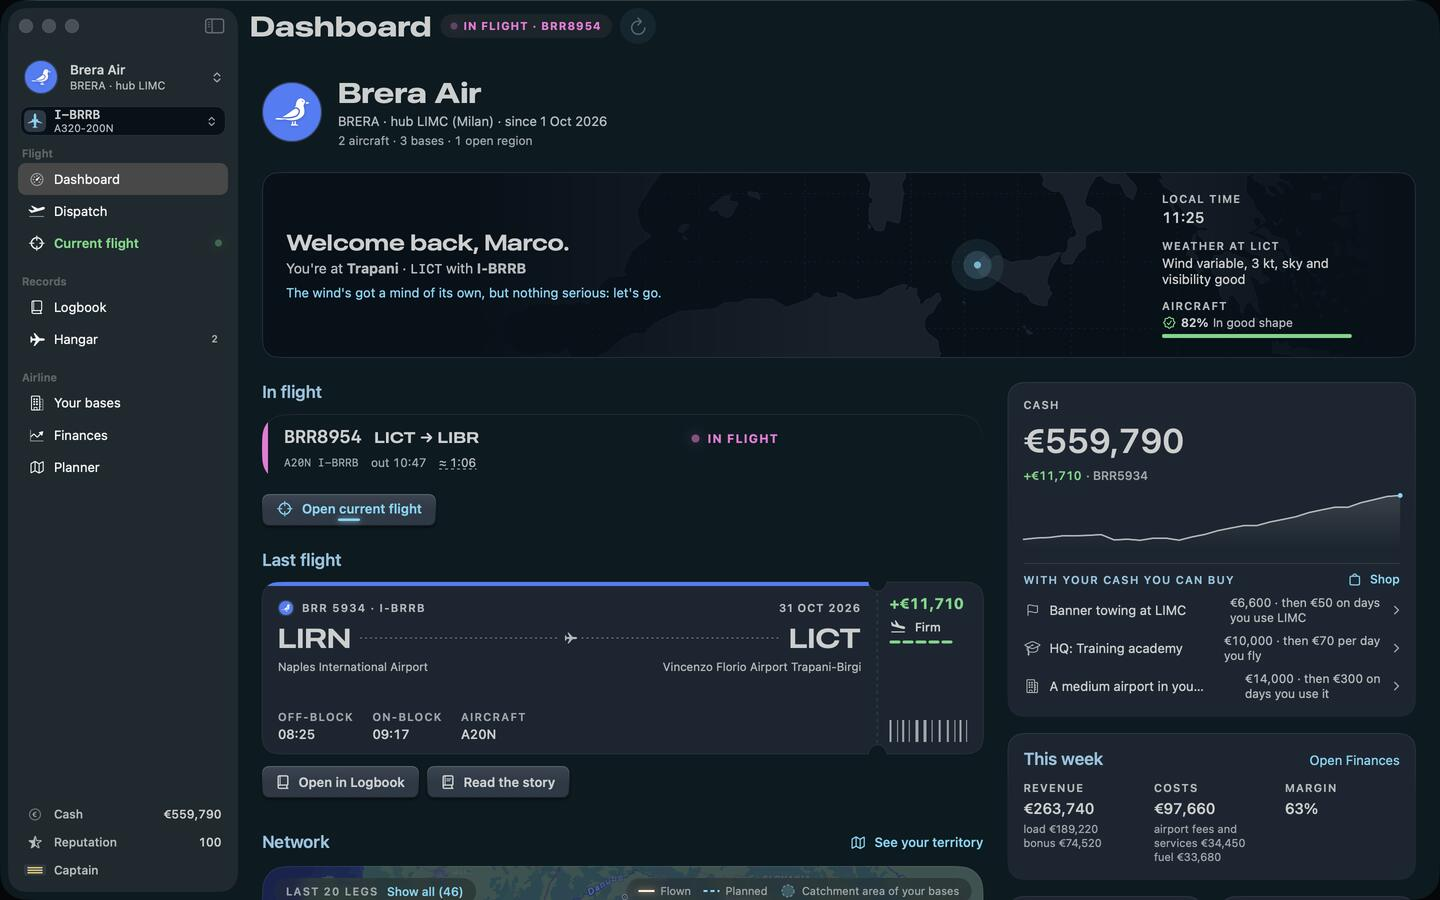
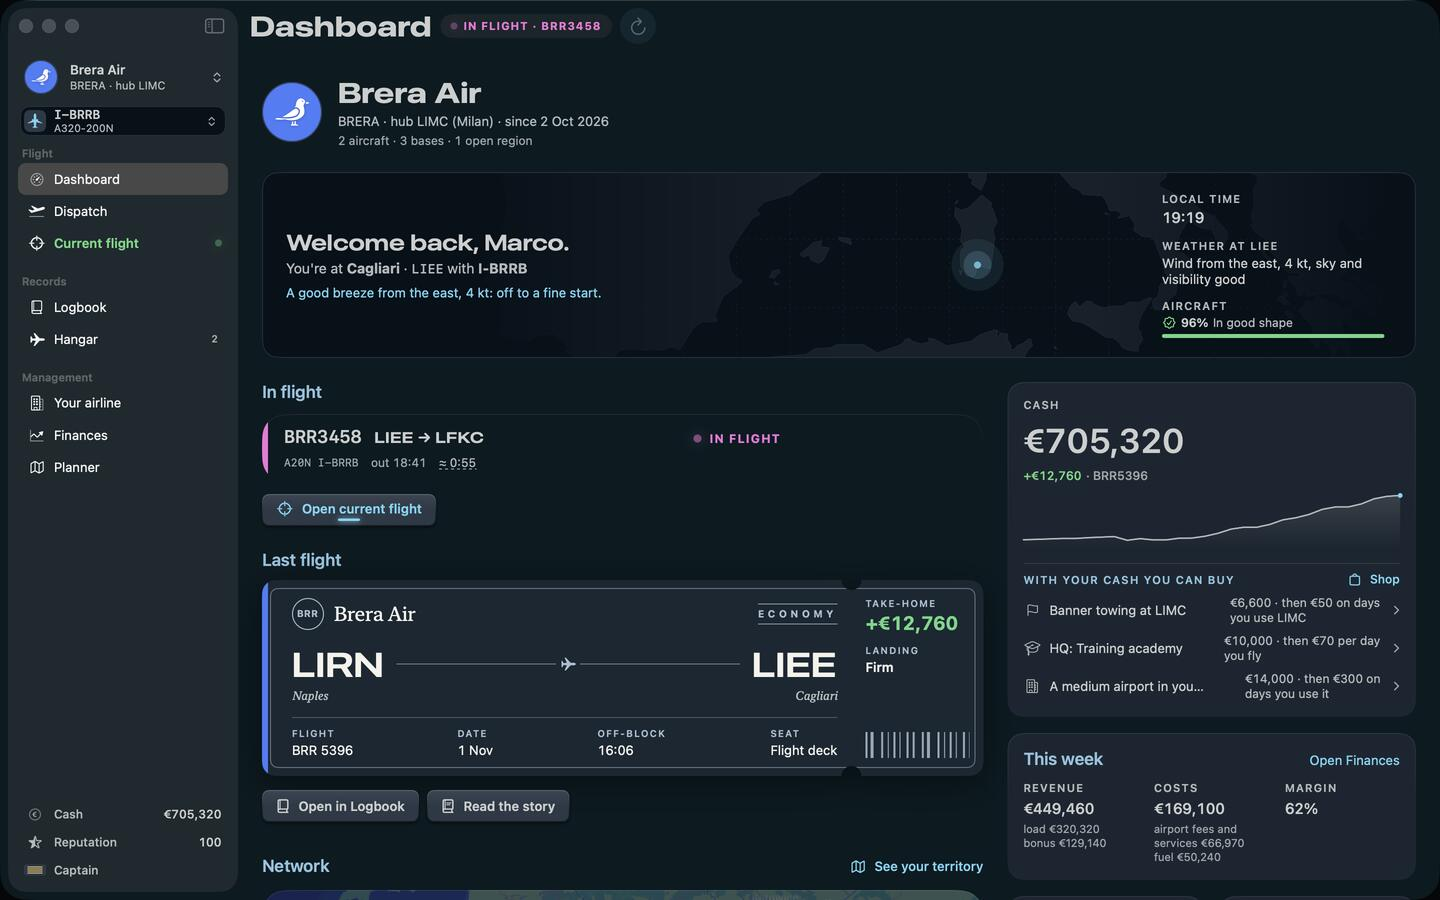
Planner facoltativo e foto del 01/11
Il giro, le cornici, «Works with every version» e le domande dicono che il
piano nel planner è una scelta: chi lo fa ha il flusso di prima, chi no vola
la diretta fra i due aeroporti. L'accesso con l'account serve solo a chi usa
il planner. Schermate nuove (Cagliari–Calvi, Venezia–Friedrichshafen,
logbook fino a Ürümqi) con alt e ritaglio della missione accettata rifatti;
airline@2x resta quella del 31/10.

diff --git a/index.html b/index.html
@@ -69,14 +69,14 @@
 <!-- 2 · L'idea, dal generale -->
 <section class="intro" id="idea">
   <div class="intro-text">
-    <h2>Same sim, same planner. Now there’s an airline.</h2>
-    <p>Microsoft Flight Simulator gives you the aircraft, the world and a planner to prepare every flight. Chief Pilot keeps all of it, and adds what happens around the flight.</p>
+    <h2>Same sim, same habits. Now there’s an airline.</h2>
+    <p>Microsoft Flight Simulator gives you the aircraft, the world and a planner, if you like to plan. Chief Pilot keeps all of it, and adds what happens around the flight.</p>
     <p>Before you take off: a mission worth flying, generated where you parked last night. While you fly: a second screen beside the TV. After you land: a receipt, a boarding pass and a new trail on the map.</p>
     <p>And over all of it, the part the sim leaves to your imagination: an airline. Its fleet, its bases, its money, its reputation, and you, working your way up to captain.</p>
     <p><a class="text-link" href="#how">See how one evening goes</a></p>
   </div>
   <figure class="mac intro-mac">
-    <div class="mac-screen"><img src="assets/schermate/dashboard.jpg" srcset="assets/schermate/dashboard.jpg 1440w, assets/schermate/dashboard@2x.jpg 2880w" sizes="(min-width: 1100px) 62vw, 94vw" width="1440" height="900" loading="lazy" alt="The dashboard of Brera Air, based in Milan: the pilot at Trapani, the flight to Brindisi in progress, the last flight from Naples, cash and this week’s accounts."></div>
+    <div class="mac-screen"><img src="assets/schermate/dashboard.jpg" srcset="assets/schermate/dashboard.jpg 1440w, assets/schermate/dashboard@2x.jpg 2880w" sizes="(min-width: 1100px) 62vw, 94vw" width="1440" height="900" loading="lazy" alt="The dashboard of Brera Air, based in Milan: the pilot at Cagliari, the flight to Calvi in progress, the last flight from Naples, cash and this week’s accounts."></div>
     <div class="mac-base" aria-hidden="true"></div>
     <figcaption>The dashboard: your airline at a glance.</figcaption>
   </figure>
@@ -93,12 +93,12 @@
         <p>Work leaves from the airport where you last landed, sized to the aircraft you chose and to the legs you like.</p>
       </li>
       <li data-step="2">
-        <p class="loop-say">Plan it where you always plan.</p>
-        <p>Make the flight plan in the MSFS planner, as usual. Chief Pilot reads your saved plans, finds this one and links it to the mission.</p>
+        <p class="loop-say">Plan it, if you like.</p>
+        <p>Make the flight plan in the MSFS planner, as usual: Chief Pilot reads your saved plans, finds this one and links it to the mission. Without a plan, you fly the direct route between the two airports.</p>
       </li>
       <li data-step="3">
         <p class="loop-say">Fly it in the sim.</p>
-        <p>In the sim, EFB › Import Route. On the Mac, Off-block: the clock starts, with the route and the load sheet in view.</p>
+        <p>In the sim, EFB › Import Route, if you made a plan. On the Mac, Off-block: the clock starts, with the route and the load sheet in view.</p>
       </li>
       <li data-step="4">
         <p class="loop-say">Land, and get paid.</p>
@@ -134,7 +134,7 @@
         <p class="mission-load">Butter landing · on time · next: 6 departures from Sumburgh</p>
       </div>
       <ol class="drill" aria-label="The drill">
-        <li>Open the planner and save the plan</li>
+        <li>Optional: save the plan in the planner</li>
         <li>In the sim: EFB › Import Route</li>
         <li>Off-block</li>
         <li>Landed, and the receipt</li>
@@ -146,9 +146,9 @@
 <!-- 3 bis · Il volo: il piano dal planner, lo schermo accanto alla TV -->
 <section class="flight" id="flight">
   <figure class="mac">
-    <div class="mac-screen"><img src="assets/schermate/flight-ready.jpg" srcset="assets/schermate/flight-ready.jpg 1440w, assets/schermate/flight-ready@2x.jpg 2880w" sizes="(min-width: 1100px) 46vw, 94vw" width="1440" height="900" alt="Current flight before departure: the planned route from Trapani to Brindisi, the plan found in the planner, the drill and what to set in the sim." loading="lazy"></div>
+    <div class="mac-screen"><img src="assets/schermate/flight-ready.jpg" srcset="assets/schermate/flight-ready.jpg 1440w, assets/schermate/flight-ready@2x.jpg 2880w" sizes="(min-width: 1100px) 46vw, 94vw" width="1440" height="900" alt="Current flight before departure: the route from Cagliari to Calvi, the plan found in the planner and linked, the drill and what to set in the sim." loading="lazy"></div>
     <div class="mac-base" aria-hidden="true"></div>
-    <figcaption>Ready: the plan is in the planner, and the load sheet shows what to set in the sim.</figcaption>
+    <figcaption>Ready, here with a plan from the planner. The load sheet shows what to set in the sim.</figcaption>
   </figure>
   <figure class="mac">
     <div class="mac-screen"><img src="assets/schermate/current-flight.jpg" srcset="assets/schermate/current-flight.jpg 1440w, assets/schermate/current-flight@2x.jpg 2880w" sizes="(min-width: 1100px) 46vw, 94vw" width="1440" height="900" alt="Current flight in the air: the flight strip, the route in magenta and the load sheet." loading="lazy"></div>
@@ -162,7 +162,7 @@
   <h2 class="missions-head">Tonight’s departures.</h2>
   <div class="missions-blocks">
     <article class="mblock" style="--crop:2 / 6;--text:7 / 12">
-      <div class="crop" style="--a:324/376;--w:444.4;--l:344.4;--t:14.4"><img src="assets/schermate/dispatch@2x.jpg" width="2880" height="1800" alt="The accepted mission in Dispatch: Grenoble to Zurich on the map, with 55 passengers on board." loading="lazy"></div>
+      <div class="crop" style="--a:324/390;--w:444.4;--l:344.4;--t:13.8"><img src="assets/schermate/dispatch@2x.jpg" width="2880" height="1800" alt="The accepted mission in Dispatch: Venice to Friedrichshafen on the map, with 56 passengers on board." loading="lazy"></div>
       <div class="mtext">
         <h3>Where you are, what you fly</h3>
         <ul>
@@ -175,7 +175,7 @@
       </div>
     </article>
     <article class="mblock mblock-flip" style="--crop:7 / 13;--text:1 / 6">
-      <div class="crop" style="--a:838/524;--w:171.8;--l:31.0;--t:44.7"><img src="assets/schermate/dispatch@2x.jpg" width="2880" height="1800" alt="The departures board: Zurich, Clermont-Ferrand, Bern, Sion, Rodez and Lyon, with passengers, perishables, express parcels and two rare missions." loading="lazy"></div>
+      <div class="crop" style="--a:838/524;--w:171.8;--l:31.0;--t:44.7"><img src="assets/schermate/dispatch@2x.jpg" width="2880" height="1800" alt="The departures board: Friedrichshafen, Munich, Bergamo, Milan, Parma, Zadar and Verona, with passengers, cargo, express parcels, perishables and two rare missions." loading="lazy"></div>
       <div class="mtext">
         <h3>Every kind of job</h3>
         <ul>
@@ -203,7 +203,7 @@
     </article>
   </div>
   <figure class="mac missions-mac">
-    <div class="mac-screen"><img src="assets/schermate/dispatch.jpg" srcset="assets/schermate/dispatch.jpg 1440w, assets/schermate/dispatch@2x.jpg 2880w" sizes="(min-width: 1100px) 80vw, 94vw" width="1440" height="900" alt="Dispatch at Grenoble: the departures board with the accepted mission to Zurich and two rare ones, and the story of the accepted flight." loading="lazy"></div>
+    <div class="mac-screen"><img src="assets/schermate/dispatch.jpg" srcset="assets/schermate/dispatch.jpg 1440w, assets/schermate/dispatch@2x.jpg 2880w" sizes="(min-width: 1100px) 80vw, 94vw" width="1440" height="900" alt="Dispatch at Venice: the departures board with the accepted mission to Friedrichshafen and two rare ones, and the story of the accepted flight." loading="lazy"></div>
     <div class="mac-base" aria-hidden="true"></div>
     <figcaption>Dispatch, with the story of the accepted mission.</figcaption>
   </figure>
@@ -425,7 +425,7 @@
       </ul>
     </div>
     <figure class="mac">
-      <div class="mac-screen"><img src="assets/schermate/logbook.jpg" srcset="assets/schermate/logbook.jpg 1440w, assets/schermate/logbook@2x.jpg 2880w" sizes="(min-width: 1100px) 46vw, 94vw" width="1440" height="900" alt="The Logbook of an airline based at Amsterdam: trails across Europe and the Middle East, totals, and the list of flights." loading="lazy"></div>
+      <div class="mac-screen"><img src="assets/schermate/logbook.jpg" srcset="assets/schermate/logbook.jpg 1440w, assets/schermate/logbook@2x.jpg 2880w" sizes="(min-width: 1100px) 46vw, 94vw" width="1440" height="900" alt="The Logbook of an airline based at Amsterdam: trails across Europe, Africa and Asia as far as Ürümqi, the totals, and the flights as boarding passes." loading="lazy"></div>
       <div class="mac-base" aria-hidden="true"></div>
       <figcaption>The Logbook, with the trails and the totals.</figcaption>
     </figure>
@@ -514,7 +514,7 @@
   </div>
   <div class="nrow nrow-flip">
     <figure class="mac">
-      <div class="mac-screen"><img src="assets/schermate/territory.jpg" srcset="assets/schermate/territory.jpg 1440w, assets/schermate/territory@2x.jpg 1920w" sizes="(min-width: 1100px) 56vw, 94vw" width="1920" height="1450" style="object-position: 50% 50%" alt="Your territory: areas in North America and Western Europe, the hub at Amsterdam, bases at Düsseldorf, Barcelona and New York, and their catchment areas." loading="lazy"></div>
+      <div class="mac-screen"><img src="assets/schermate/territory.jpg" srcset="assets/schermate/territory.jpg 1440w, assets/schermate/territory@2x.jpg 1920w" sizes="(min-width: 1100px) 56vw, 94vw" width="1920" height="1466" style="object-position: 50% 50%" alt="Your territory: areas in North America and Western Europe, the hub at Amsterdam, bases at Düsseldorf, Barcelona and New York, and their catchment areas." loading="lazy"></div>
       <div class="mac-base" aria-hidden="true"></div>
       <figcaption>Your territory: the areas you own, and how far their bonuses reach.</figcaption>
     </figure>
@@ -687,7 +687,7 @@
   <p class="platforms" aria-label="PS5, Xbox, PC and Mac"><span>PS5</span><span>Xbox</span><span>PC</span><span>Mac</span></p>
   <div class="route-line">
     <p><strong>Chief Pilot</strong> tells you the mission.</p>
-    <p><strong>The MSFS planner</strong> holds your plan, as it does now.</p>
+    <p><strong>The MSFS planner</strong> holds your plan, if you make one.</p>
     <p><strong>EFB › Import Route</strong> brings it into the sim, on any platform.</p>
   </div>
   <p class="everywhere-foot">Chief Pilot never connects to the sim, so you install and configure nothing, and a sim update can’t break it.</p>
@@ -718,8 +718,9 @@
   <div class="faq-text">
     <p><strong>Which versions of the sim does it work with?</strong> Microsoft Flight Simulator 2024 on PS5, Xbox, PC and Mac. Chief Pilot never connects to the sim, so the platform makes no difference. Chief Pilot itself runs on your Mac.</p>
     <p><strong>Do I have to install anything in the sim?</strong> No. No add-ons, no SimConnect, nothing in the Community folder. You fly as you do now.</p>
-    <p><strong>What does it read from the MSFS planner?</strong> The flight plans you’ve saved there. You sign in inside the app with the account you use for the planner, and Chief Pilot reads your plans. It never creates, changes or deletes one.</p>
-    <p><strong>Does it make flight plans?</strong> No. It tells you where to go, with what and carrying what. You make the plan, in the planner.</p>
+    <p><strong>Do I need the MSFS planner?</strong> No. Make a plan there and Chief Pilot links it to the mission. Without one, you fly the direct route between the two airports, and the app estimates the time from the aircraft type.</p>
+    <p><strong>What does it read from the MSFS planner?</strong> The flight plans you’ve saved there, if you use it. Only then do you sign in inside the app, with the account you use for the planner. Chief Pilot reads your plans and never creates, changes or deletes one.</p>
+    <p><strong>Does it make flight plans?</strong> No. It tells you where to go, with what and carrying what. If you want a plan, you make it in the planner.</p>
     <p><strong>How does it know how I landed?</strong> It doesn’t: you tell it. Butter, firm or hard, and the rate if you noted it. The clock runs from off-block, and the progress bar is an estimate on time.</p>
     <p><strong>Which aircraft can I use?</strong> Any you fly in the sim. Pick the type from the catalogue or build it by hand, then give it a registration and a name.</p>
     <p><strong>Where is my data?</strong> On your Mac. No account with us, no servers of ours, no tracking. Export everything as CSV, KML or a JSON backup whenever you like.</p>

diff --git a/README.md b/README.md
@@ -41,7 +41,7 @@ La storia completa del lavoro (con questi file) è nel ramo locale `storia-local
 ### La pagina, sezione per sezione
 
 1. **Apertura** «Fly the plane. Run the airline.»: marchio piccolo sopra il titolo, che resta la cosa più grande del foglio; dietro, la carta del giro coi colori del riquadro (`assets/carta-foglio.svg`). A destra il tabellone Solari: in cima CHIEF PILOT in tessere gialle (più grandi, `--nk` in `styles.css`, sempre nella larghezza del tabellone), sotto DEPARTURES e le partenze, senza orologio; sopra la mappa notturna dell'Europa con tre catene di scie in tre direzioni, che non si incrociano e partono a circa due secondi l'una dall'altra: da Stornoway verso est (quella di stasera, prima tratta per Sumburgh, la prima riga del tabellone), da Londra verso nord fino ad Aberdeen, da Copenaghen giù a tappe fino ad Atene. Linea, alone, scali e base della stessa misura del logbook sullo schermo; la vista è quella di sempre (`viewBox` 1250 130 920 1080) e dopo Berlino la catena per Atene passa sotto il tabellone. Ogni catena va in ordine di volo (`CATENE_APERTURA` in `tools/disegni.py`, un orologio per catena in `app.js`).
-2. **L'idea**: lo stesso sim, lo stesso planner, e in più una compagnia. Dashboard in cornice di Mac.
+2. **L'idea**: lo stesso sim, le stesse abitudini, e in più una compagnia. Dashboard in cornice di Mac. Dal 04/11 il planner è facoltativo anche sul sito (feedback 73 dell'app): chi lo usa ha il flusso di prima, che resta la vetrina del giro e delle cornici; chi no vola la diretta fra i due aeroporti, col tempo stimato dal tipo d'aereo. L'accesso con l'account del planner serve solo a chi lo usa.
 3. **Il giro** «Just one more flight.»: quattro passi, con la griglia e le rotte di `assets/carta-giro.svg` fino a «Land, and get paid»; la missione a destra cambia stato mentre si scorre (aperta, piano trovato, in volo, atterrata). Sotto, due cornici: il volo pronto col piano dal planner e il volo in corso.
 4. **Missioni** sul giallo della legenda del tabellone: titolo in alto, poi tre righe alternate, ritaglio da una parte e testo dall'altra (dove sei e cosa voli, i tipi di lavoro, gli stili di carriera). Ogni ritaglio è un pannello intero della schermata, senza parole tagliate. Dispatch in cornice.
 4 bis. **Le storie** «Every mission comes with a story.» (richiesta di Francesco: «il nostro tocco di poesia»): si sceglie un aereo fra i modellini dell'app (leggero, turboelica, business jet, corto e lungo raggio, rare) e si legge una storia vera generata dall'app, con titolo, tratta, tipo di lavoro, aereo e la riga del meteo. La storia è una nota lasciata in sala equipaggi: carta col nastro adesivo, il testo fra virgolette “ ” (le mette `styles.css`) e la firma «Dispatch, Sirio Virtual»; «Another story» passa alla successiva. 30 storie da `Contrail/docs/sito/storie-esempio-en.md`, coi nomi delle città da Wikidata, messe nell'HTML da `tools/storie.py` (la prima si vede anche senza JavaScript). Kodiak, Twin Otter e PC-12 l'app li disegna come il Cessna: stanno sotto «Light aircraft», e ogni storia dice il suo aereo. La compagnia di prova delle storie (Frank Air, FRK) diventa quella d'esempio della pagina (Sirio Virtual, SRV).
@@ -51,7 +51,7 @@ La storia completa del lavoro (con questi file) è nel ramo locale `storia-local
 8. **Territorio**: il terminal ai livelli 1, 2, 3 con l'area d'influenza; poi due righe alternate. Your bases a destra con cosa si costruisce (ogni struttura mette il suo lavoro in bacheca e paga di più nella sua area; tornare a una base non costa). Il territorio a sinistra: 15 aree, quella dell'hub è compresa, le altre si comprano con un hub e un terminal di livello 1 regalati; basi, tour e contratti regionali solo nelle tue aree, rare più frequenti (`CareerStore+Shop.swift`, `MissionGenerator.swift`).
 9. **La compagnia**: nome, codice e livrea vanno su tutti i biglietti; lo stile cambia il biglietto (restano per la visita dopo). Quattro biglietti disegnati in CSS e SVG: **linea** prima classe blu notte e oro con codice a barre; **charter e isole** l'hopper Stornoway–Benbecula su carta consumata, piegato, con l'anello del caffè, il timbro BOARDED e il tagliando strappato; **tour** a tappe verso Nuuk, con le tappe fatte forate e timbrate; **aeroclub** la pagina del libretto del socio con le firme dell'istruttore. Inchiostro dei timbri: il filtro SVG `#ink`. La livrea stampata su carta chiara è scurita (`--ink-livery`). Sede e più compagnie.
 10. **Gradi**: CAPTAIN in grande, i cinque gradi coi galloni e cosa apre ognuno (valori di `Tuning.ranks`), reputazione e traguardi. Spalline come `Epaulette` nell'app: Cadet 1 gallone, First Officer 3, Captain 4, Senior Captain 4 con la stellina, Training Captain 4 con la chevron.
-11. **Ovunque**: PS5, Xbox, PC, Mac; missione → planner → EFB › Import Route.
+11. **Ovunque**: PS5, Xbox, PC, Mac; missione → planner (se fai il piano) → EFB › Import Route.
 12. **Com'è nata**: una lettera in prima persona di Francesco, su un foglio.
 13. **Domande**, come testo da leggere in due colonne.
 14. **Chiusura** «Where are you flying tonight?» e il piede con la nota sui marchi.
@@ -92,7 +92,7 @@ Tutto il testo che si legge sta nell'HTML in inglese, compreso quello che lo scr
 
 ## Da tenere d'occhio
 
-1. **Le schermate** vengono dalla figlia «Sito: schermate in inglese» (`Contrail/docs/sito/schermate-en/`, `elenco.md`), carriere demo fatte dal motore. Per rifarne una: `tools/schermate.sh <png> <nome>` coi nomi `dashboard`, `dispatch`, `dispatch-detail`, `flight-ready`, `current-flight`, `logbook`, `finances`, `bases` (dalla versione alta), `territory` (il foglio del territorio), `airline` (dalla versione alta). I tre ritagli delle Missioni (`.crop`, variabili nell'HTML: `--a` rapporto del riquadro, `--w` larghezza dell'immagine in % del riquadro, `--l` e `--t` spostamenti in % di larghezza e altezza del riquadro; si calcolano dalla regione x0 y0 x1 y1 della schermata a 1x) vanno rimessi se cambia l'inquadratura.
+1. **Le schermate** vengono dalla figlia «Sito: schermate in inglese» (`Contrail/docs/sito/schermate-en/`, `elenco.md`), carriere demo fatte dal motore. Per rifarne una: `tools/schermate.sh <png> <nome>` coi nomi `dashboard`, `dispatch`, `dispatch-detail`, `flight-ready`, `current-flight`, `logbook`, `finances`, `bases` (dalla versione alta), `territory` (il foglio del territorio), `airline` (dalla versione alta). I tre ritagli delle Missioni (`.crop`, variabili nell'HTML: `--a` rapporto del riquadro, `--w` larghezza dell'immagine in % del riquadro, `--l` e `--t` spostamenti in % di larghezza e altezza del riquadro; si calcolano dalla regione x0 y0 x1 y1 della schermata a 1x) vanno rimessi se cambia l'inquadratura. Foto del 01/11 sera dal 04/11, tranne `airline@2x.jpg` (31/10): quella nuova ha in vista il riquadro «Full version» col prezzo della build di sviluppo, e il ritaglio Career style è identico. `airline.jpg` a 1x non c'è perché la pagina usa solo il ritaglio dalla 2x.
 2. **L'indirizzo `chiefpilot@bulbmode.com`**: è sul modello di Bottlegram, ma va creato o confermato. Compare in tutte e tre le pagine.
 3. **La lettera di Francesco** («Com'è nata») è scritta in prima persona: la deve approvare lui.
 4. I numeri d'esempio (la ricevuta del volo Francoforte–Monaco, la missione SRV214, i quattro biglietti) sono illustrazioni, segnate come tali dove serve; gradi, percentuali, 28.388 aeroporti e 3.000 frasi sono veri.
